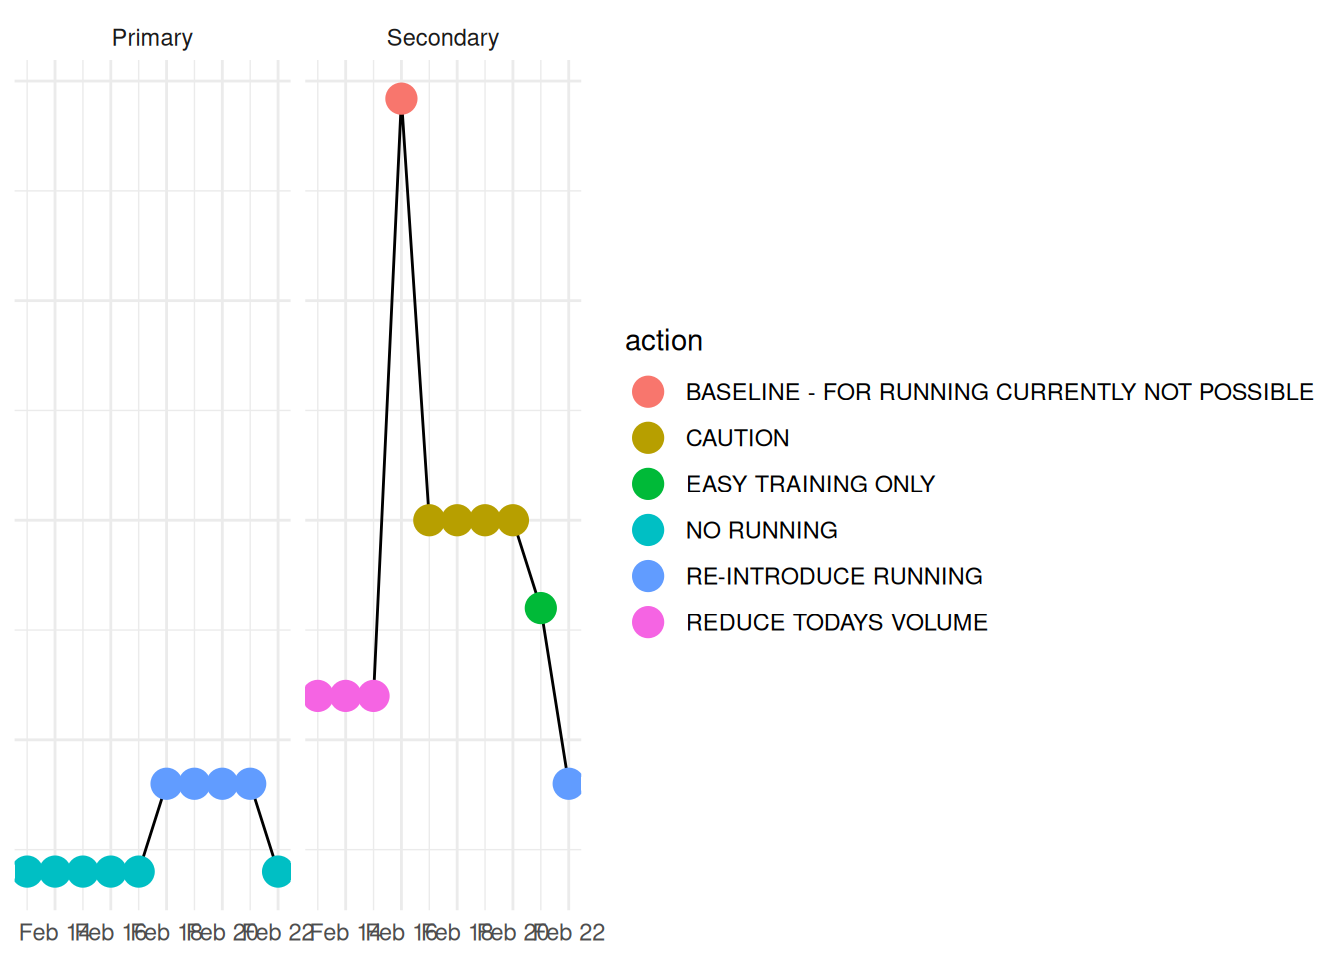
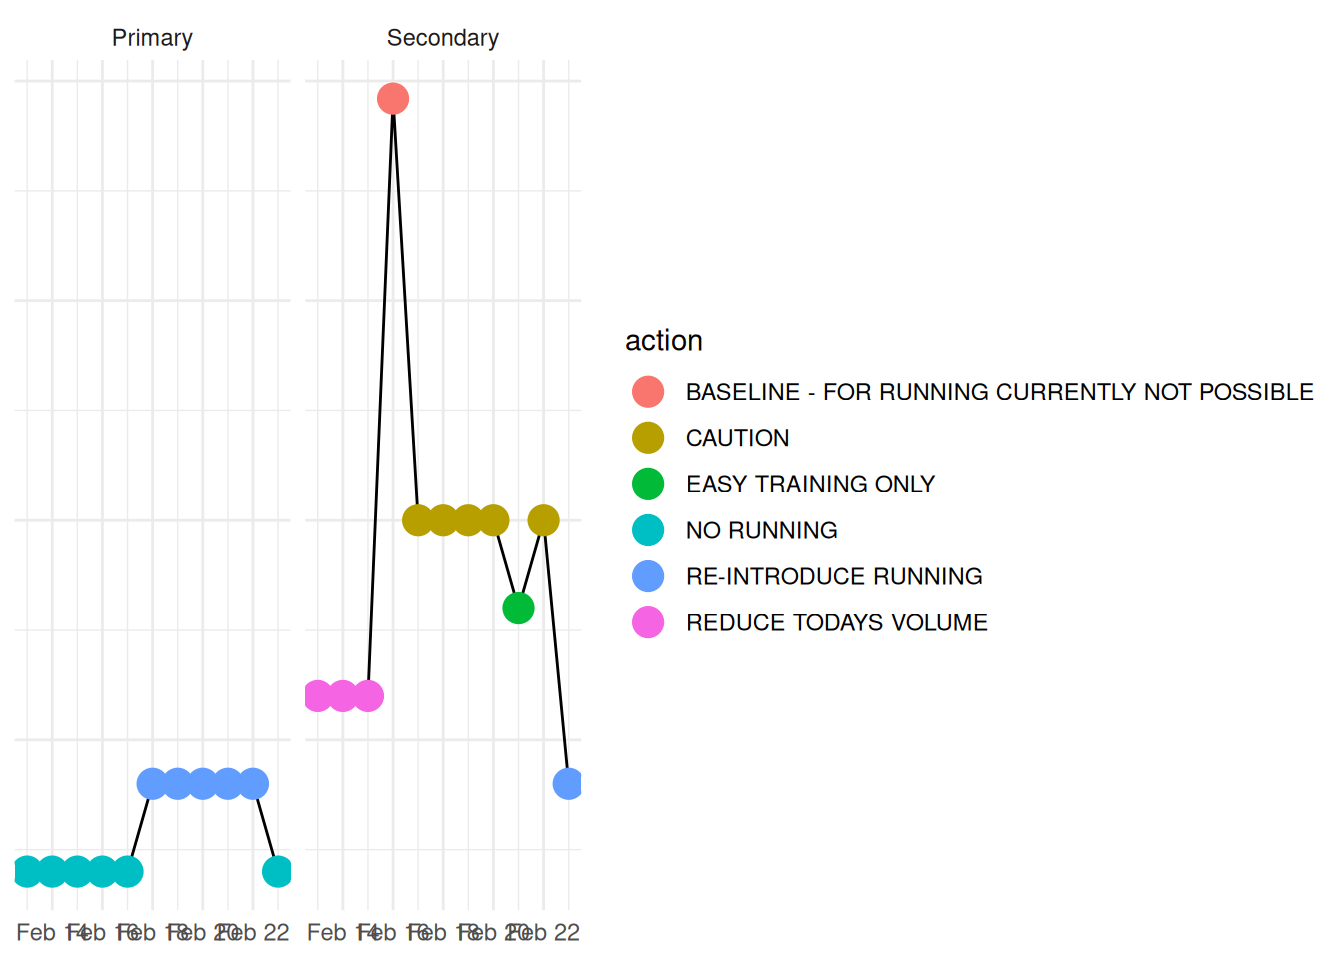
deploy: 1881e4ef7192a38233eee97bcd0dfeb0b25d7a1d

diff --git a/index.html b/index.html
@@ -159,7 +159,7 @@ ul.task-list li input[type="checkbox"] {
 <section id="details-of-the-second-status" class="level4">
 <h4 class="anchored" data-anchor-id="details-of-the-second-status">Details of the Second Status</h4>
 <p><strong>Message:</strong> Caution advised. Monitor the development of pain, tightness, fatigue, sleep, and readiness closely over the next couple of days.</p>
-<p><strong>What’s the problem:</strong> Readiness is somewhat low. Why?, Motivation below normal. What’s wrong? Think about why you are doing this. All the beautiful runs and at some point on the top of the podium. You can do this! If it persists take some time off and do things you enjoy.</p>
+<p><strong>What’s the problem:</strong> Motivation below normal. What’s wrong? Think about why you are doing this. All the beautiful runs and at some point on the top of the podium. You can do this! If it persists take some time off and do things you enjoy.</p>
 <p><strong>Which activities are blocked:</strong> NA</p>
 </section>
 </section>
@@ -176,7 +176,8 @@ ul.task-list li input[type="checkbox"] {
 [1] "2026-02-19"
 [1] "2026-02-20"
 [1] "2026-02-21"
-[1] "2026-02-22"</code></pre>
+[1] "2026-02-22"
+[1] "2026-02-23"</code></pre>
 </div>
 <div class="cell-output-display">
 <div>
@@ -266,8 +267,8 @@ ul.task-list li input[type="checkbox"] {
 <h3 class="anchored" data-anchor-id="goal-volume-by-heart-rate-distribution">Goal Volume by Heart Rate Distribution</h3>
 <div class="cell">
 <div class="cell-output-display">
-<div class="datatables html-widget html-fill-item" id="htmlwidget-484b9ebad29937cb26e2" style="width:100%;height:auto;"></div>
-<script type="application/json" data-for="htmlwidget-484b9ebad29937cb26e2">{"x":{"filter":"none","vertical":false,"data":[[0,1,2,3,4],["&lt;125","125-143","144-160","161-177","178-200"],[0,40,50,8,2],[22.1,32.8,43.9,1.2,0],[null,null,null,null,null]],"container":"<table class=\"display\">\n  <thead>\n    <tr>\n      <th>Zone<\/th>\n      <th>Current HR Thresholds<\/th>\n      <th>Share (in %)<\/th>\n      <th>Share Last Week Total (in %)<\/th>\n      <th>Share Last Week Running (in %)<\/th>\n    <\/tr>\n  <\/thead>\n<\/table>","options":{"dom":"t","paging":false,"ordering":false,"info":false,"columnDefs":[{"className":"dt-right","targets":[0,2,3,4]},{"name":"Zone","targets":0},{"name":"Current HR Thresholds","targets":1},{"name":"Share (in %)","targets":2},{"name":"Share Last Week Total (in %)","targets":3},{"name":"Share Last Week Running (in %)","targets":4}],"order":[],"autoWidth":false,"orderClasses":false}},"evals":[],"jsHooks":[]}</script>
+<div class="datatables html-widget html-fill-item" id="htmlwidget-3b80246b00f8dc3e6b47" style="width:100%;height:auto;"></div>
+<script type="application/json" data-for="htmlwidget-3b80246b00f8dc3e6b47">{"x":{"filter":"none","vertical":false,"data":[[0,1,2,3,4],["&lt;125","125-143","144-160","161-177","178-200"],[0,40,50,8,2],[22.1,32.8,43.9,1.2,0],[null,null,null,null,null]],"container":"<table class=\"display\">\n  <thead>\n    <tr>\n      <th>Zone<\/th>\n      <th>Current HR Thresholds<\/th>\n      <th>Share (in %)<\/th>\n      <th>Share Last Week Total (in %)<\/th>\n      <th>Share Last Week Running (in %)<\/th>\n    <\/tr>\n  <\/thead>\n<\/table>","options":{"dom":"t","paging":false,"ordering":false,"info":false,"columnDefs":[{"className":"dt-right","targets":[0,2,3,4]},{"name":"Zone","targets":0},{"name":"Current HR Thresholds","targets":1},{"name":"Share (in %)","targets":2},{"name":"Share Last Week Total (in %)","targets":3},{"name":"Share Last Week Running (in %)","targets":4}],"order":[],"autoWidth":false,"orderClasses":false}},"evals":[],"jsHooks":[]}</script>
 </div>
 </div>
 
